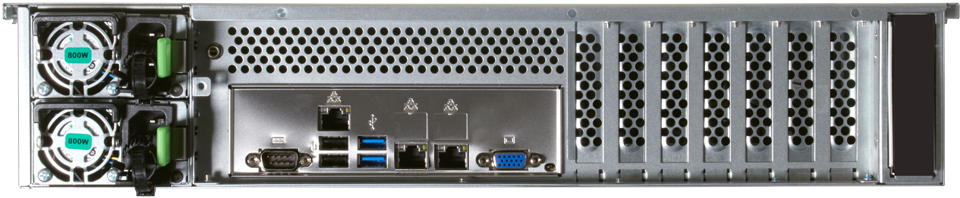
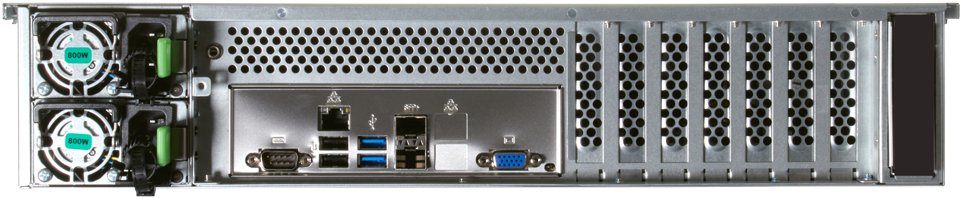
Only change IO plate for R20B

Changed region(s): [[0.4062, 0.4848, 0.5, 0.8788]]

diff --git a/src/app/core/classes/hardware/r20b.ts b/src/app/core/classes/hardware/r20b.ts
@@ -1,0 +1,47 @@
+import { Container, Texture, Sprite } from 'pixi.js';
+import { DriveTray } from './drivetray';
+import { Chassis } from './chassis';
+import { ChassisView } from './chassis-view';
+
+export class R20B extends Chassis {
+  constructor(rearChassis = false) {
+    super();
+    this.model = 'r20b';
+
+    this.front = new ChassisView();
+    this.front.container = new PIXI.Container();
+    this.front.chassisPath = 'assets/images/hardware/r20/r20_960w.png';
+    this.front.driveTrayBackgroundPath = 'assets/images/hardware/r20/r20_960w_drivetray_bg.png';
+    this.front.driveTrayHandlePath = 'assets/images/hardware/r20/r20_960w_drivetray_handle.png';
+
+    this.front.slotRange = { start: 1, end: 12 };
+    this.front.totalDriveTrays = 12;
+    this.front.columns = 4;
+    this.front.rows = 3;
+
+    this.front.driveTraysOffsetX = 5;
+    this.front.driveTraysOffsetY = -60;
+    const fscale = 1.16;
+    this.front.driveTrays.scale = { x: fscale, y: fscale };
+
+    if (rearChassis) {
+      this.rear = new ChassisView();
+      this.rear.container = new PIXI.Container();
+
+      const rscale = 1.1;
+      this.rear.driveTrays.scale = { x: 1.1, y: 1.12 };
+      this.rear.driveTraysOffsetX = 777;
+      this.rear.driveTraysOffsetY = -50;
+
+      this.rear.chassisPath = 'assets/images/hardware/r20/r20b_rear_960w.png';
+      this.rear.driveTrayBackgroundPath = 'assets/images/hardware/r20/r20_rear_960w_drivetray_handle.png';
+      this.rear.driveTrayHandlePath = 'assets/images/hardware/r20/r20_rear_960w_drivetray_handle.png';
+
+      this.rear.slotRange = { start: 13, end: 14 };
+      this.rear.totalDriveTrays = 2;
+      this.rear.columns = 2;
+      this.rear.rows = 1;
+      this.rear.gapX = 5;
+    }
+  }
+}

diff --git a/src/app/pages/system/viewenclosure/enclosure-disks/enclosure-disks.component.ts b/src/app/pages/system/viewenclosure/enclosure-disks/enclosure-disks.component.ts
@@ -16,6 +16,7 @@ import { ChassisView } from 'app/core/classes/hardware/chassis-view';
 import { R10 } from 'app/core/classes/hardware/r10';
 import { R20 } from 'app/core/classes/hardware/r20';
 import { R20A } from 'app/core/classes/hardware/r20a';
+import { R20B } from 'app/core/classes/hardware/r20b';
 import { R40 } from 'app/core/classes/hardware/r40';
 import { R50 } from 'app/core/classes/hardware/r50';
 import { M50 } from 'app/core/classes/hardware/m50';
@@ -384,12 +385,14 @@ export class EnclosureDisksComponent implements AfterContentInit, OnChanges, OnD
         this.chassis = new R10();
         break;
       case 'TRUENAS-R20A':
+      case 'R20':
+        this.chassis = new R20(true);
+        break;
       case 'R20A':
         this.chassis = new R20A(true);
         break;
-      case 'R20':
       case 'R20B':
-        this.chassis = new R20(true);
+        this.chassis = new R20B(true);
         break;
       case 'R40':
         this.chassis = new R40();
